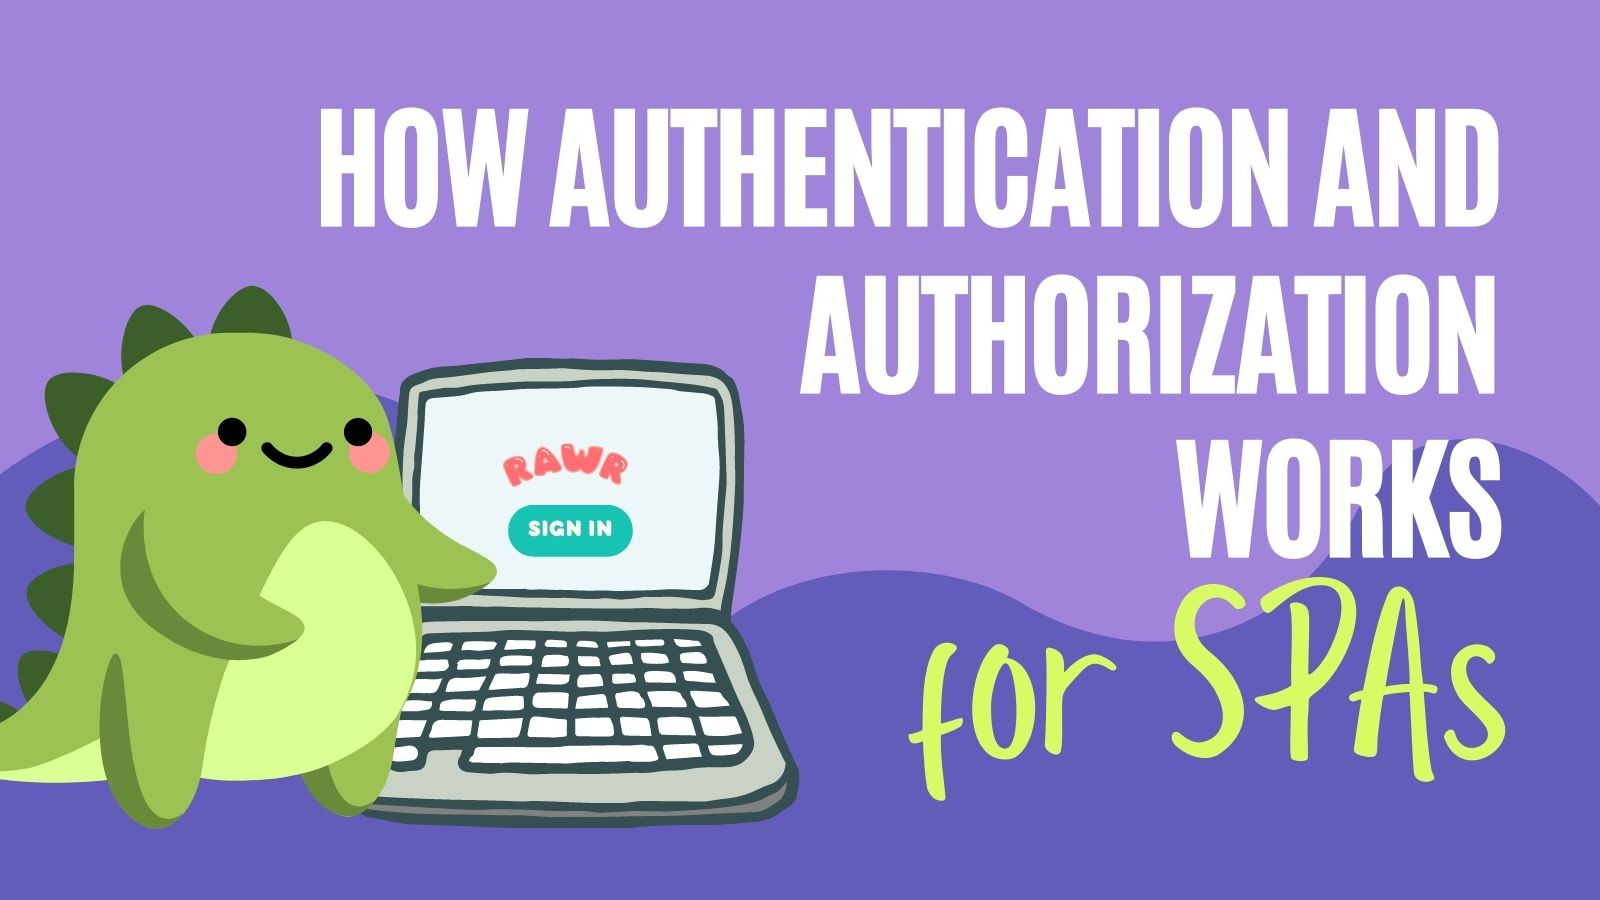
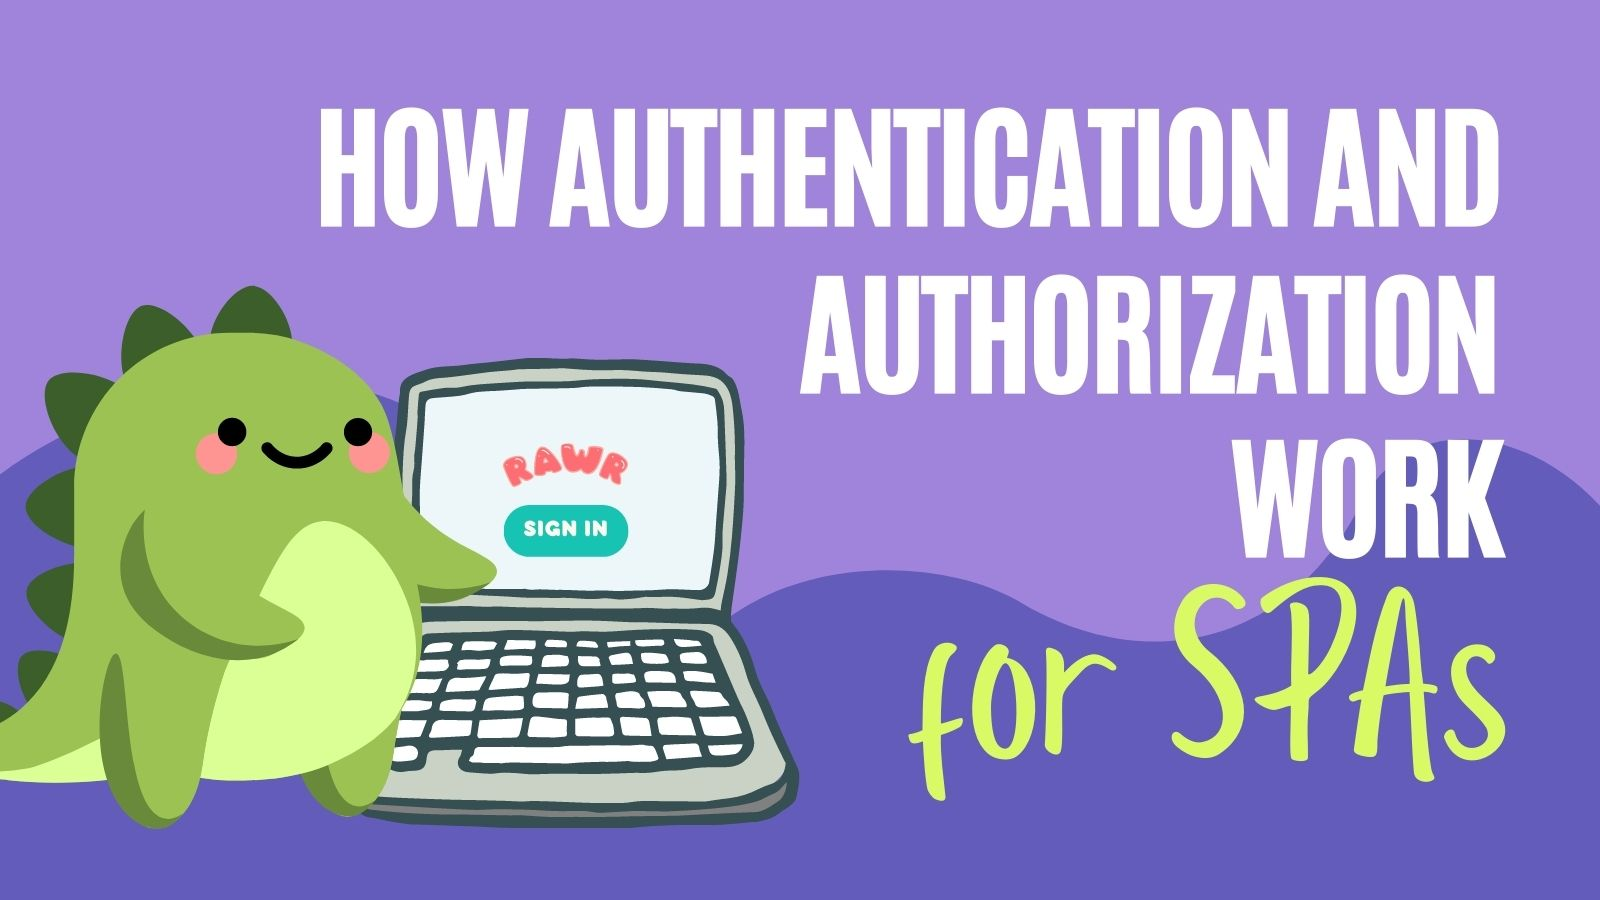
grammar change again

Changed region(s): [[0.7188, 0.4667, 0.9375, 0.6222], [0.3125, 0.56, 0.4062, 0.6222]]

diff --git a/_source/_posts/2023-03-20-spa-auth-tokens.md b/_source/_posts/2023-03-20-spa-auth-tokens.md
@@ -1,6 +1,6 @@
 ---
 layout: blog_post
-title: "How Authentication and Authorization Works for SPAs"
+title: "How Authentication and Authorization Work for SPAs"
 author: alisa-duncan
 by: advocate
 communities: [security,javascript]
